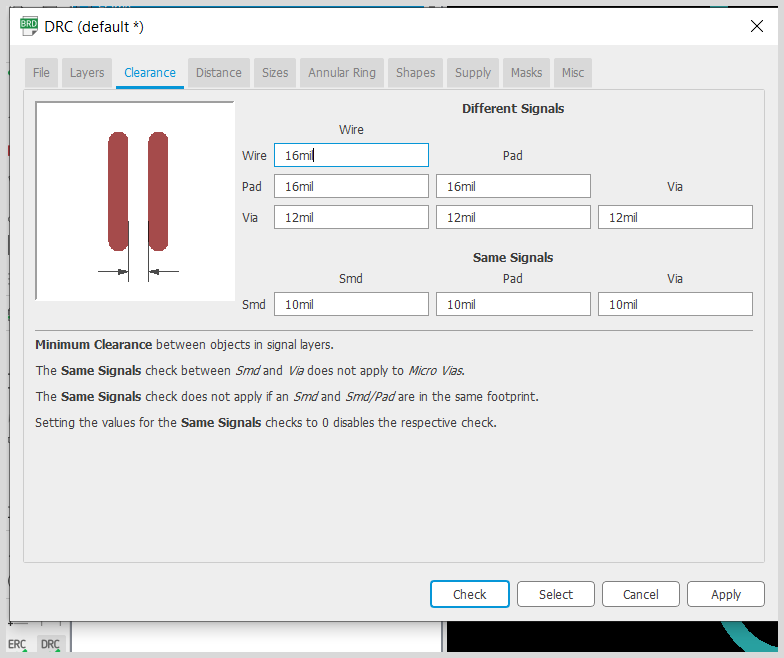
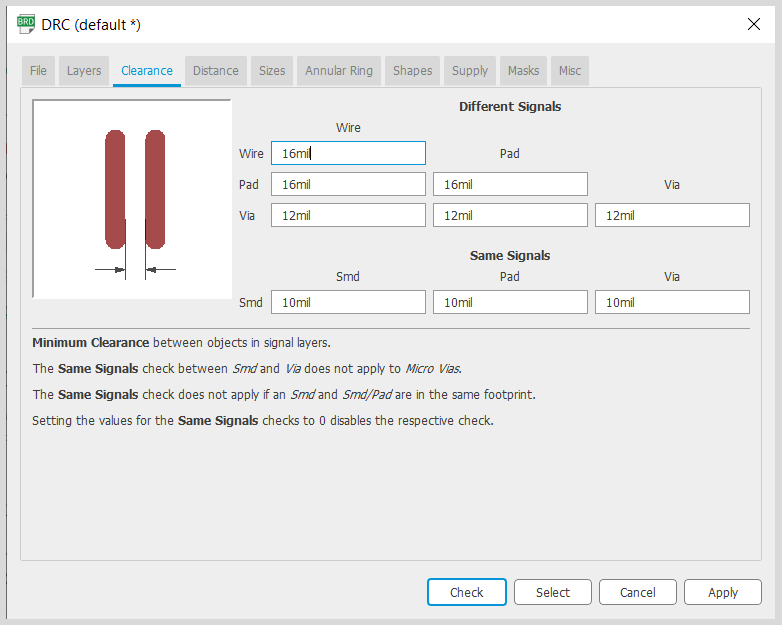
resize img

diff --git a/docs/02-elecDesign.md b/docs/02-elecDesign.md
@@ -61,11 +61,11 @@ When we move to Board view, the components that we have just wire will be jumble
 <br><img src="https://github.com/aloethere/EP1001/blob/gh-pages/images/elecDesign%20img/autorouter.png?raw=true" width="150">
 
 3. Use DRC to select wire dimension. 
-<br><img src="https://github.com/aloethere/EP1001/blob/gh-pages/images/elecDesign%20img/drc.png?raw=true" width="300">
-<img src="https://github.com/aloethere/EP1001/blob/gh-pages/images/elecDesign%20img/drc%20p2.png?raw=true" width="300">
+<br><img src="https://github.com/aloethere/EP1001/blob/gh-pages/images/elecDesign%20img/drc.png?raw=true" width="200">
+<img src="https://github.com/aloethere/EP1001/blob/gh-pages/images/elecDesign%20img/drc%20p2.png?raw=true" width="200">
 
 
-<img src="https://github.com/aloethere/EP1001/blob/gh-pages/images/elecDesign%20img/completed%20board%20design.png?raw=true" width="450">
+<img src="https://github.com/aloethere/EP1001/blob/gh-pages/images/elecDesign%20img/completed%20board%20design.png?raw=true" width="450"><br><sub><em>Finalised board design before generating Gcode</em></sub>
 
 
 
